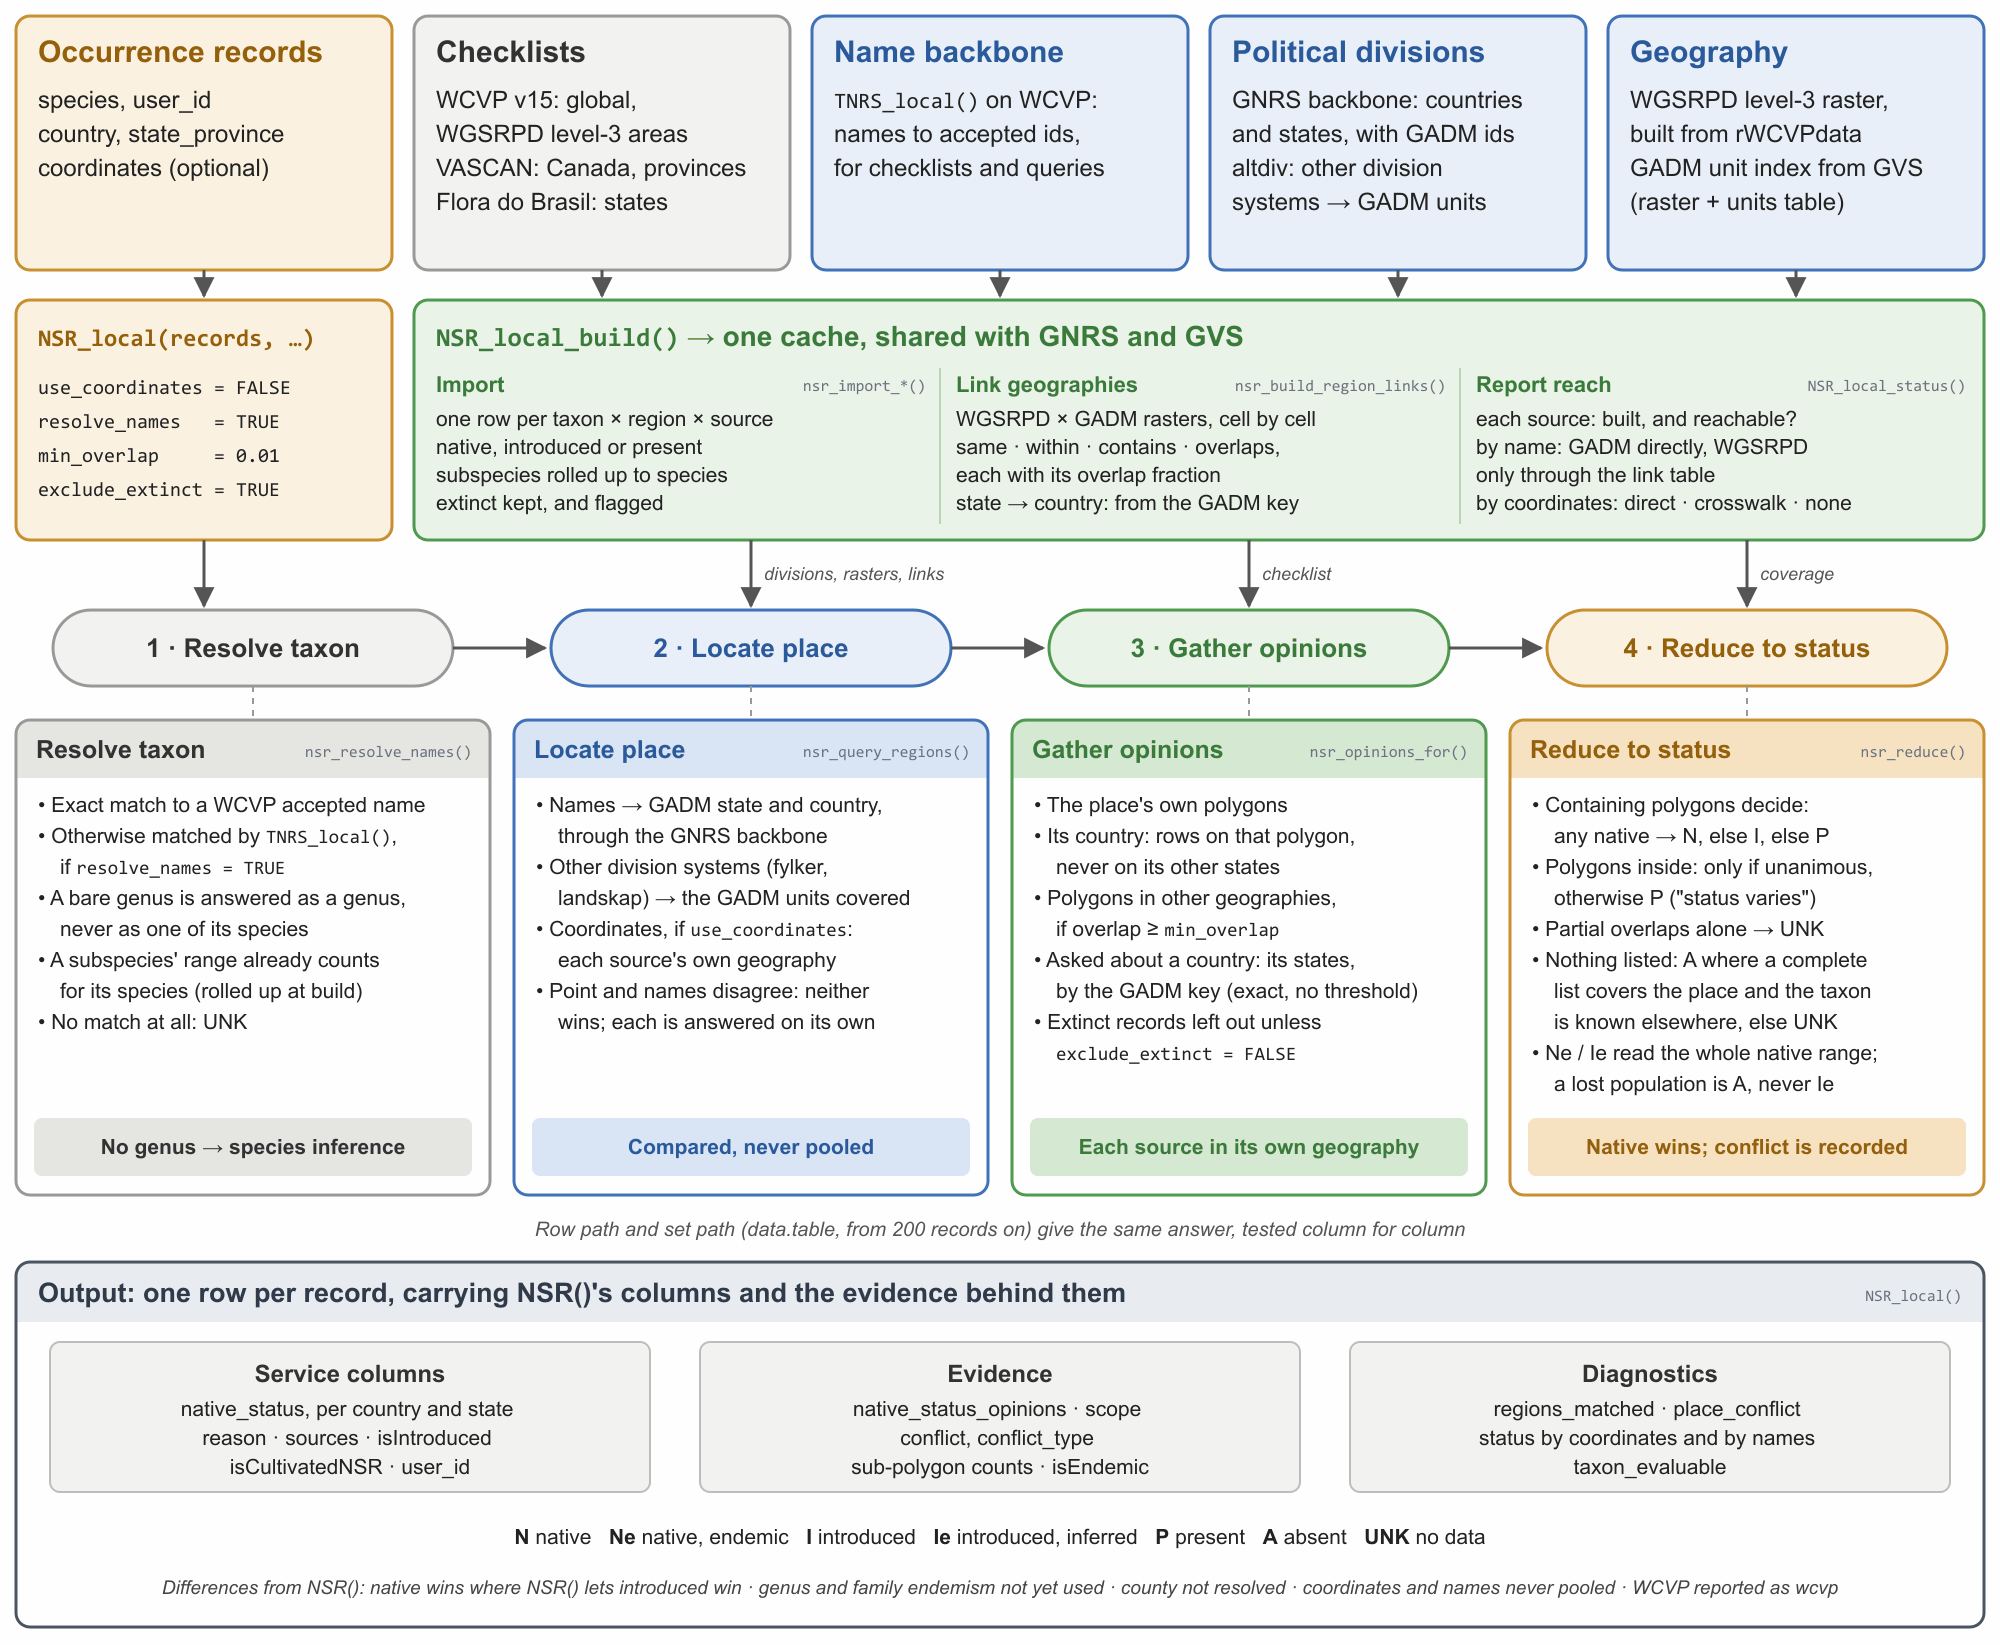
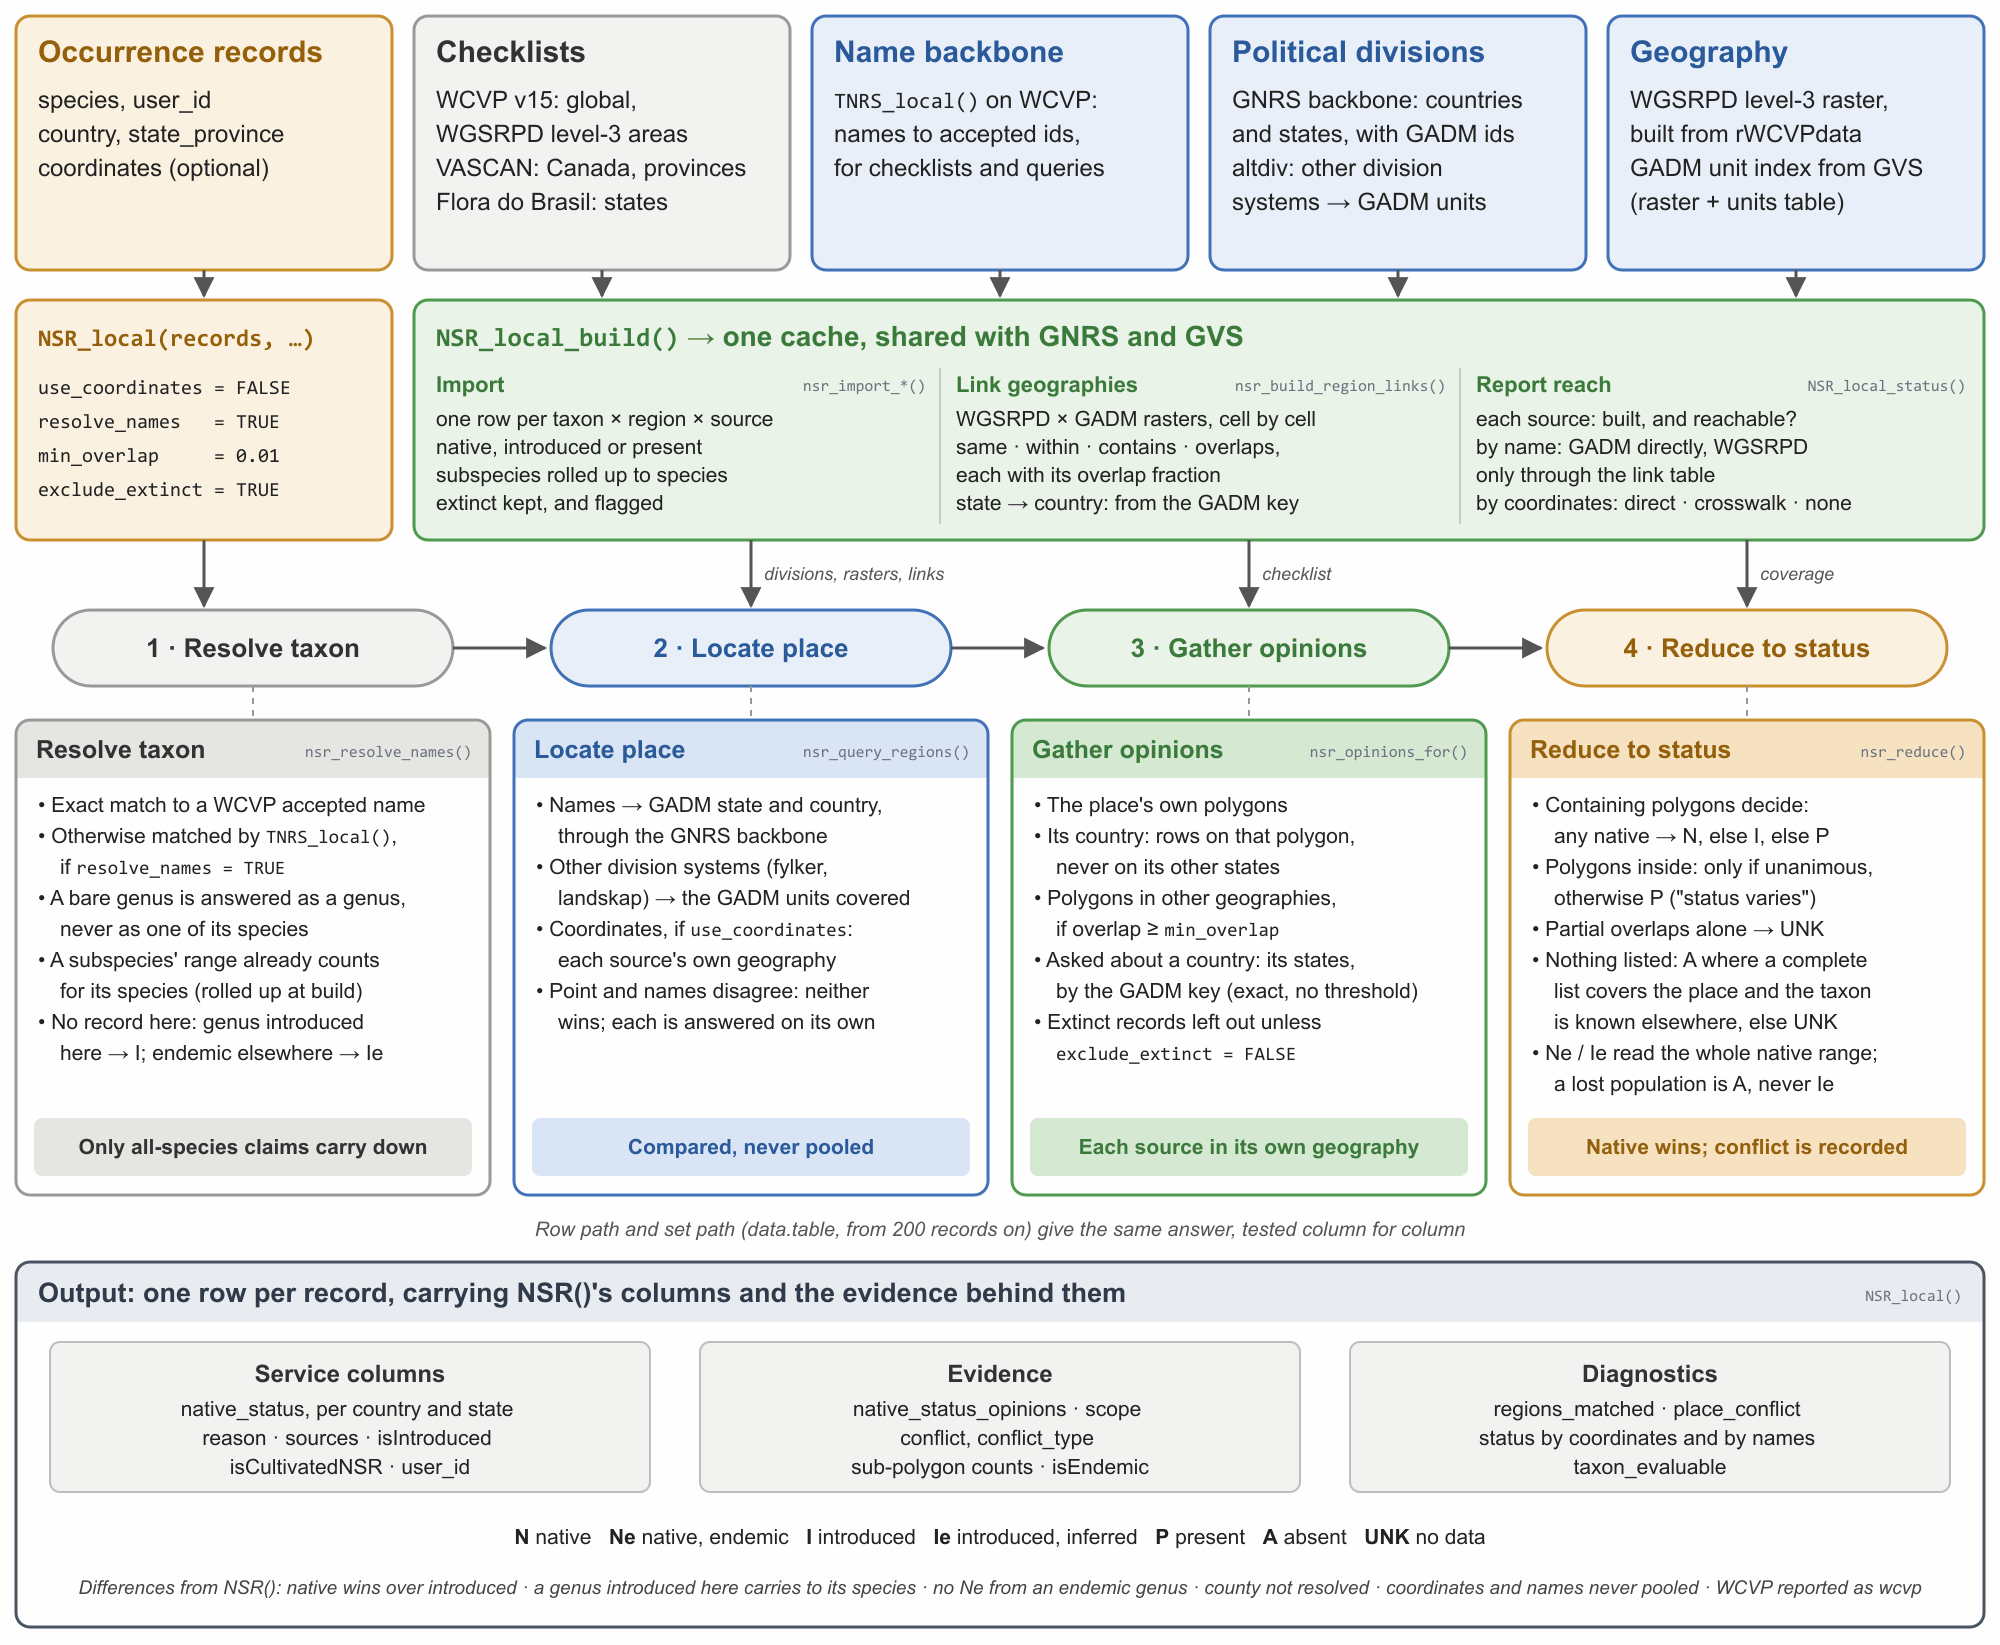
Carry two all-species claims down from genus and family
The two inferences deferred in 11d8eee, now that PR #1 has merged.  A
genus speaks for a species only through claims true of every species in it,
and only where the species has no record of its own bearing on the place:

- a genus (or family) introduced in a polygon that is or contains the place
  has no native species there, so the species is I;
- a genus that resolves to Ie at the place - absent from its comprehensive
  lists, its whole native range confined elsewhere - makes the species Ie.

A genus native here is existential - some species of it is native, not
necessarily this one - and still lends nothing.  WCVP v15 backs the first
rule without exception: of 51,473 genus x area introduced records, no area
has a native species of that genus.

nsr_apply_higher() runs after the resolver, for rows left at A or UNK with
no opinion of their own, and asks the same resolver what the genus, then the
family, is at the same place - so the row and set paths agree by
construction rather than by a second implementation.  An I is carried down
only from a polygon that is or contains the place with no native
sub-polygon, so a genus introduced in one province does not make its species
introduced in the whole country.  The reason names the higher taxon,
native_status_scope is "genus" or "family", and only native_status is
inferred; per-level codes stay the species' own records, as for endemism.
A taxon resolved at query time but missing from the taxa table takes its
[…]

Changed region(s): [[0.062, 0.9611, 0.961, 0.9921], [0.031, 0.6821, 0.217, 0.7131], [0.031, 0.6201, 0.186, 0.6511]]

diff --git a/dev_notes/01-offline-nsr-design.md b/dev_notes/01-offline-nsr-design.md
@@ -229,7 +229,8 @@ For each row, after name and division resolution:
 1. Gather every checklist opinion for the taxon in the division (or a containing/contained one,
    per the political rule), from all built sources. Opinions recorded against a taxon's own
    infraspecifics are already part of it, having been rolled up at build time; opinions recorded
-   against a *higher* rank are not consulted (see "Higher ranks are not consulted", below).
+   against a *higher* rank are consulted only for the two claims that hold for every species in
+   it (see "Two sound downward inferences", below).
 2. Reduce to one status per political level. **Precedence (BM, 2026-09-18): if any source says
    native, the taxon is native there.** Native is the hardest claim for a checklist to make by
    accident, whereas "introduced" and "absent" are often an artefact of a list's scope or age. Where
@@ -520,7 +521,7 @@ and the database build lives in `db/` (`nsr_db` is now `nsr_db_retired`).
   lets native win (BM, 2026-09-18), so the two can differ wherever sources conflict.
 - `nsr_includes/check_observations.php` is marked "UNDER DEVELOPMENT" and nothing includes it.
 
-### Deferred: two sound downward inferences (BM, 2026-10-17)
+### Two sound downward inferences (BM, 2026-10-17; implemented 2026-10-18)
 
 Native-by-genus is declined because "a genus is native here" is existential - *some* species of it
 is - and says nothing about the species in hand. Two claims about a higher taxon are universal
@@ -537,9 +538,27 @@ instead, true of every species in it, and so they do carry down:
 2. **Genus or family endemic elsewhere -> species `Ie`**, as the service does. In WCVP, 2,500 of
    14,056 genera are native to a single WGSRPD area.
 
-**To be implemented once the open Copilot review on PR #1 is resolved**, in both resolver paths,
-with the row/set parity tests extended to cover them and the reason text naming the higher taxon
-that answered, as the service's does.
+**Implemented** in `R/local_higher.R`, after PR #1 merged. `nsr_apply_higher()` runs after the
+resolver, for rows it left at `A` or `UNK` with no opinion of their own, and asks *the same
+resolver* what the genus - then the family - is at the same place; the row and set paths
+therefore agree by construction. It carries down only:
+
+- an `I` from a polygon that is or contains the place, with no native sub-polygon - a genus
+  introduced in one province is not introduced in the whole country (the partial-coverage trap
+  from `6d2f887`);
+- an `Ie`, which for the genus requires what it requires for a species: the place wholly covered,
+  the genus on none of its lists, and the genus's native range confined elsewhere.
+
+A species' own record always wins; a genus native here lends nothing. The reason names the higher
+taxon ("its genus *Acacia* is introduced in this polygon"), `native_status_scope` is `genus` or
+`family`, and only `native_status` is inferred - the per-level codes stay the species' own
+records, as they do for endemism. A taxon resolved at query time but absent from the taxa table
+takes its genus from the first word of the submitted name. WCVP has no family-rank names, so with
+today's sources the family step only matters if a checklist records families.
+
+Not done: the service also calls a species `Ne` where its genus or family is endemic to the place.
+That is sound too - the species' native range then lies inside the place - but it was not part of
+this decision.
 
 ## Milestones
 
